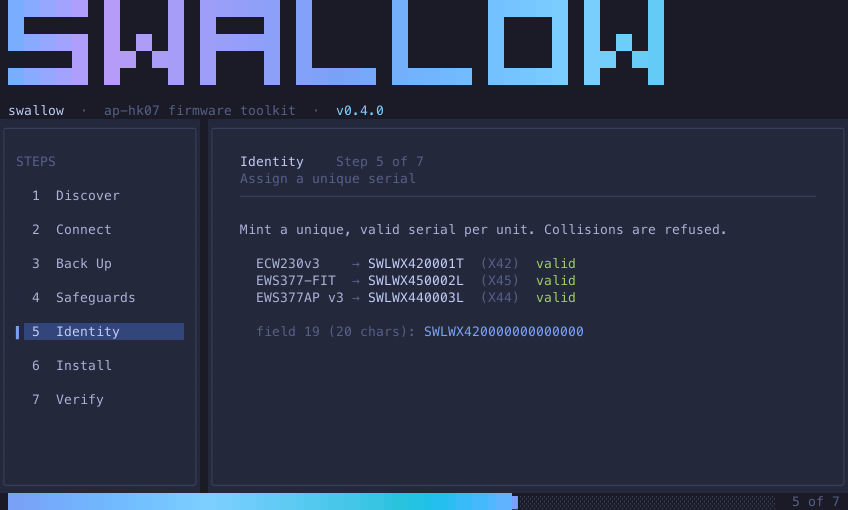
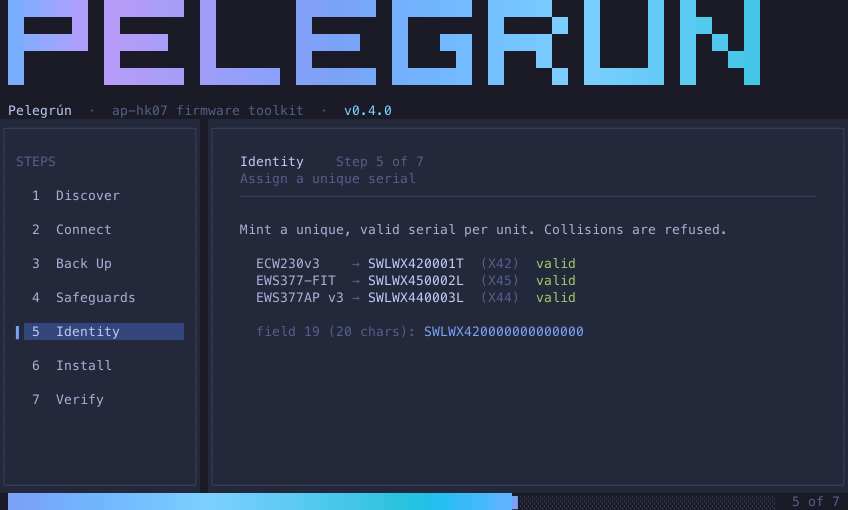
docs: regenerate tour gif + screenshots; add WIP/untested warning
- Regenerate docs/tour.gif (96 frames, 848x510px) and all 7 step
  screenshots via make tour-offline (pure-Go renderer, no vhs/ffmpeg)
- Add 'work in progress / mostly untested' callout to README.md and
  SAFETY.md; field testing is ongoing, unit + property tests all pass

diff --git a/README.md b/README.md
@@ -29,6 +29,11 @@ Discover · Connect · Back Up · Safeguards · Identity · Install · Verify.
 
 ---
 
+> **Work in progress — mostly untested.** The unit and property test suites
+> pass, but end-to-end device testing is still ongoing. Treat this as
+> experimental software. It will be validated further over time; feedback and
+> bug reports are welcome.
+
 > **Cross-flashing can brick hardware.** Pelegrún is designed so the common
 > mistakes aren't reachable (see [the two invariants](#the-two-invariants)), but
 > firmware work is never zero-risk. Read [`SAFETY.md`](SAFETY.md) and the

diff --git a/SAFETY.md b/SAFETY.md
@@ -1,5 +1,10 @@
 # SAFETY
 
+> **Work in progress.** This software is largely untested in the field. The
+> core logic and unit tests pass, but end-to-end device testing is ongoing.
+> Treat every operation as experimental until this notice is removed. Feedback
+> and bug reports are welcome.
+
 Cross-flashing can **brick hardware**. This tool is built to make that nearly
 impossible, but firmware work is never zero-risk. Read this before you use it.
 
